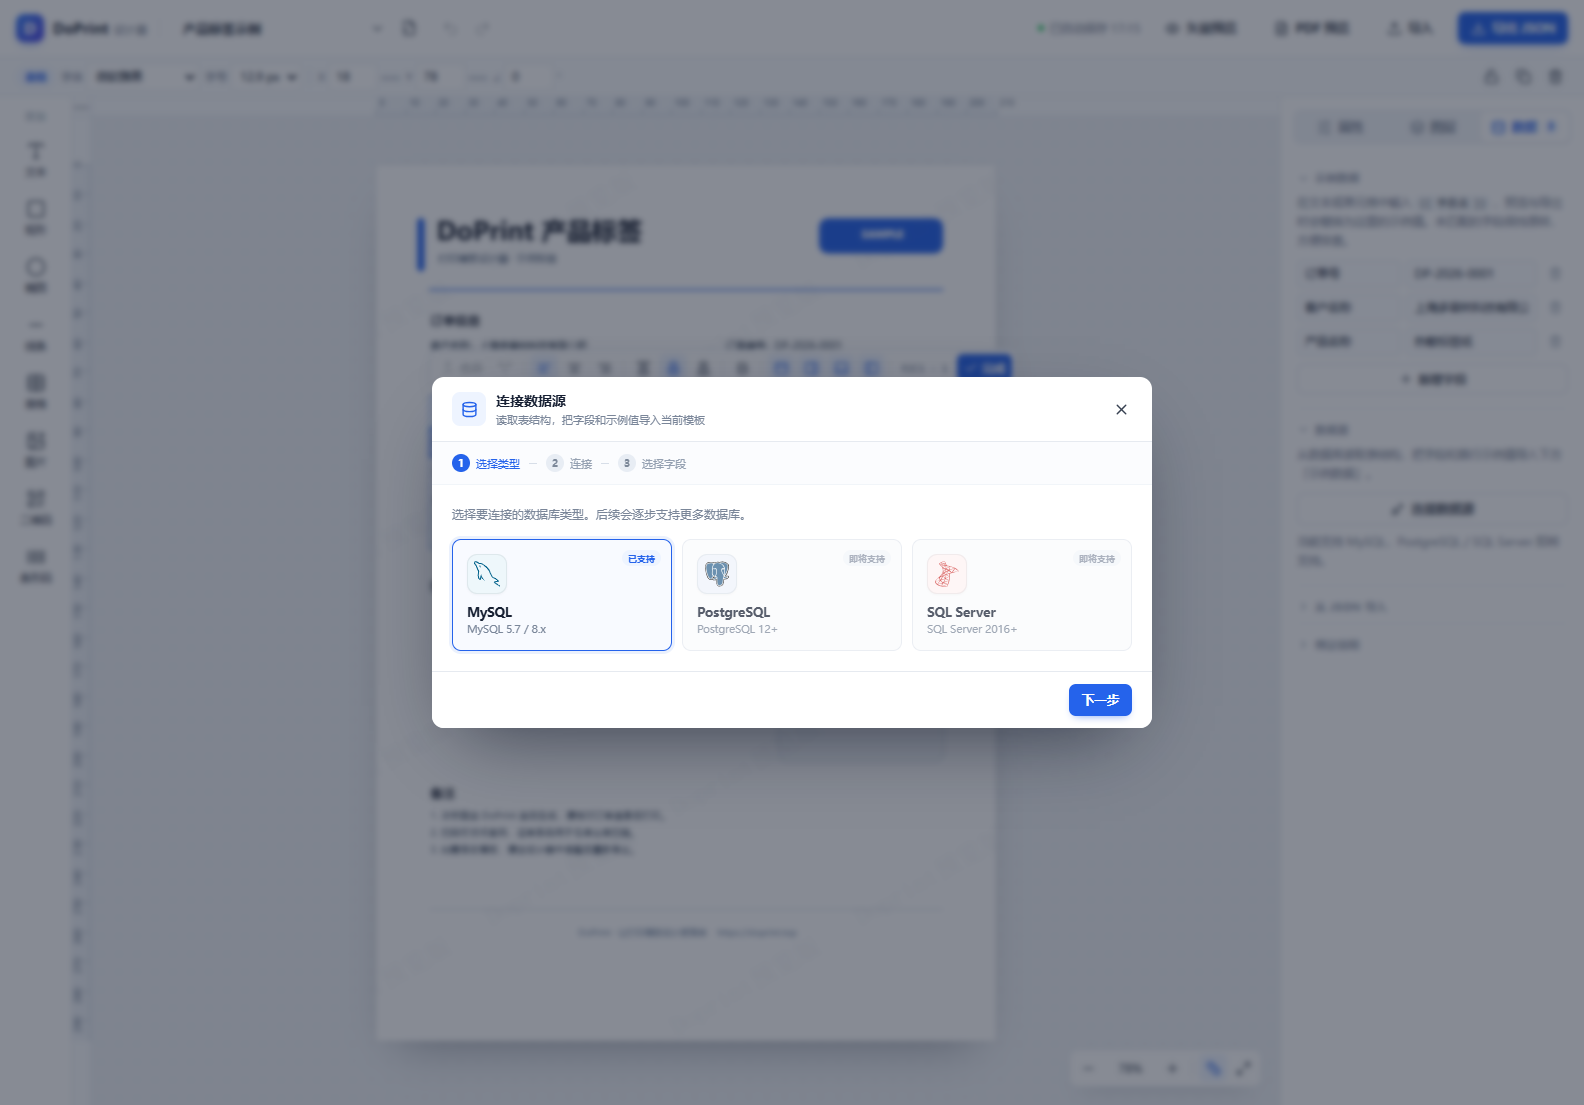
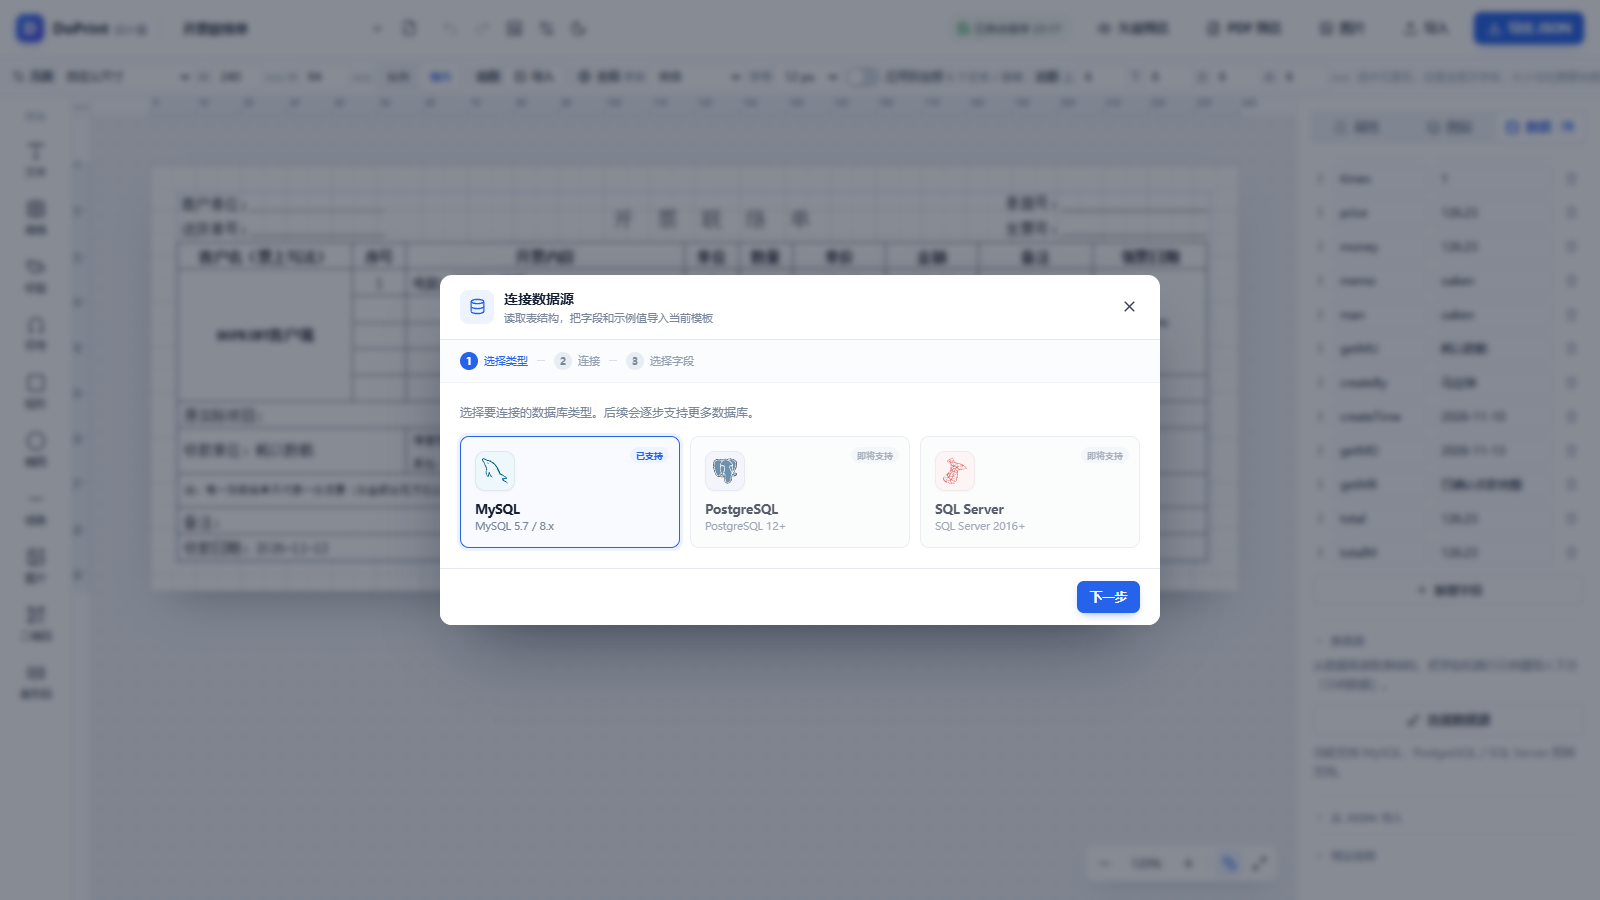
docs: 更新 README 截图并新增模板中心预览
- 用最新界面重新生成总览、表格编辑、二维码、矢量预览与数据源截图
- 总览图改为 16:9 视口，降低图片高度，页面内容更饱满
- 新增模板中心截图与说明，展示悬停大图预览和使用流程

diff --git a/README.md b/README.md
@@ -8,7 +8,7 @@
 
 ![DoPrint 设计器总览](docs/images/overview.png)
 
-*基于在线体验环境的 A4 产品标签示例：表格、二维码 / 条形码、版权水印与页面属性面板*
+*基于在线体验环境的 A5 出库单示例：明细表格、示例数据、套打与页面属性面板*
 
 ## 项目亮点
 
@@ -323,6 +323,17 @@ async function saveToServer(designer: Designer) {
 - 左侧工具栏顺序为文本、表格、标签、符号、矩形、椭圆、线条、图片、二维码、条形码
 - 点击纸张外的灰色工作区，或纸张内没有元素的空白处，都会取消当前选中
 
+### 模板中心
+
+![模板中心与悬停大图预览](docs/images/template-center.png)
+
+*悬停卡片即可在右侧查看该模板的大图，点击卡片或「使用此模板」复制到本地*
+
+- 顶栏「模板中心」内置开票联络单、商品价签、A5 送货单、出库单（明细重复）与物流面单等官方模板
+- 卡片缩略图按模板与示例数据实时渲染；鼠标悬停或键盘聚焦时，右侧显示单独一张大图、尺寸与简介
+- 使用模板会深拷贝一份到本地模板库，官方模板本身不会被修改；同名模板会自动追加序号
+- 模板列表支持复制 / 删除，删除当前模板后会自动切换到相邻模板
+
 ### 表格
 
 表格采用「数据模型 / 渲染 / 交互」分层结构：行高列宽、稀疏单元格、合并区域与样式注册表独立保存，渲染层只负责把快照绘制到画布，交互层处理命中测试、选区和编辑。表格快照随模板一起序列化，因此缩放、旋转、保存与导出始终使用真实毫米尺寸。
@@ -432,7 +443,7 @@ async function saveToServer(designer: Designer) {
 
 ![矢量预览](docs/images/vector-preview.png)
 
-*矢量预览会保留表格、二维码 / 条形码和版权水印，可直接下载 SVG*
+*物流面单的矢量预览：文字、条码与二维码均按毫米尺寸生成，可直接下载 SVG*
 
 ### 数据源
 
